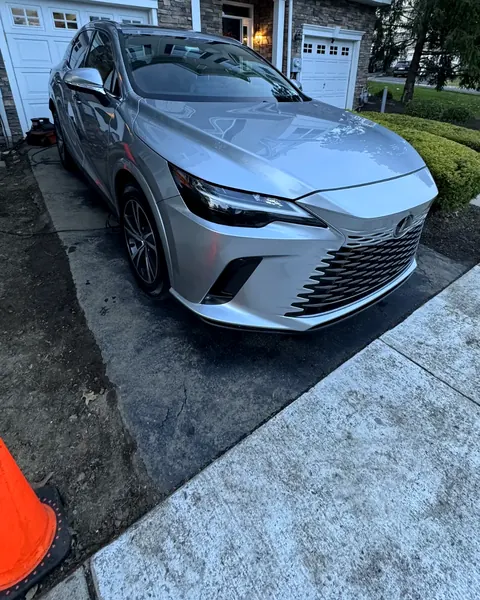
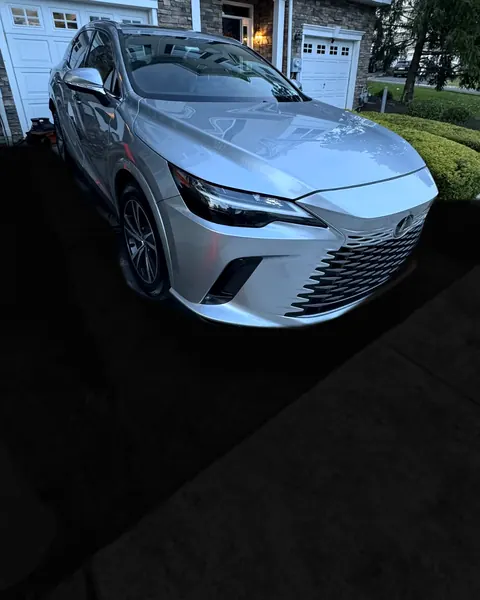
Full Detail card: darken the dirty driveway, keep the car fully in frame
- Ground around the car toned down to dark asphalt, keeping the car's
  real shadows; car untouched
- Featured card photo anchored to the top so the square crop shows the
  whole car

Claude-Session: https://claude.ai/code/session_019scLPhT3wJapjHJDkCas9U

diff --git a/site.css b/site.css
@@ -865,3 +865,6 @@ h2 { font-size: clamp(2.4rem, 5vw, 3.9rem); }
   }
   body { padding-bottom: calc(66px + env(safe-area-inset-bottom)); }
 }
+
+/* Full Detail photo: keep the whole car in the square crop, less floor */
+.s-card--featured .s-img img { object-position: 50% 0; }
